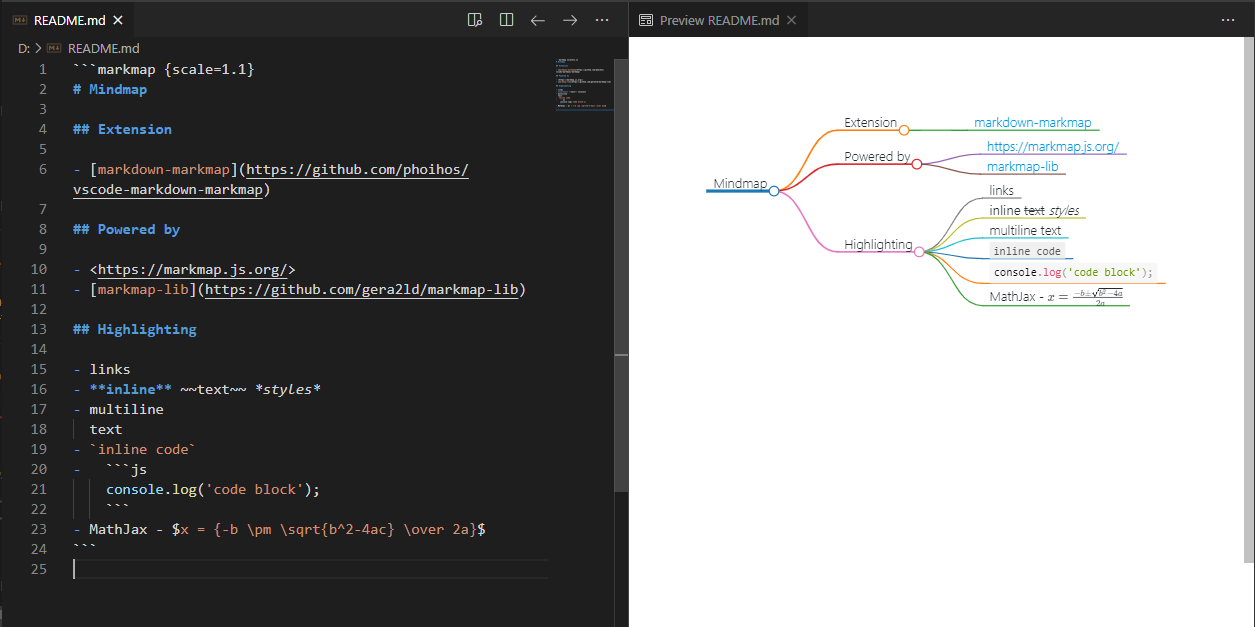
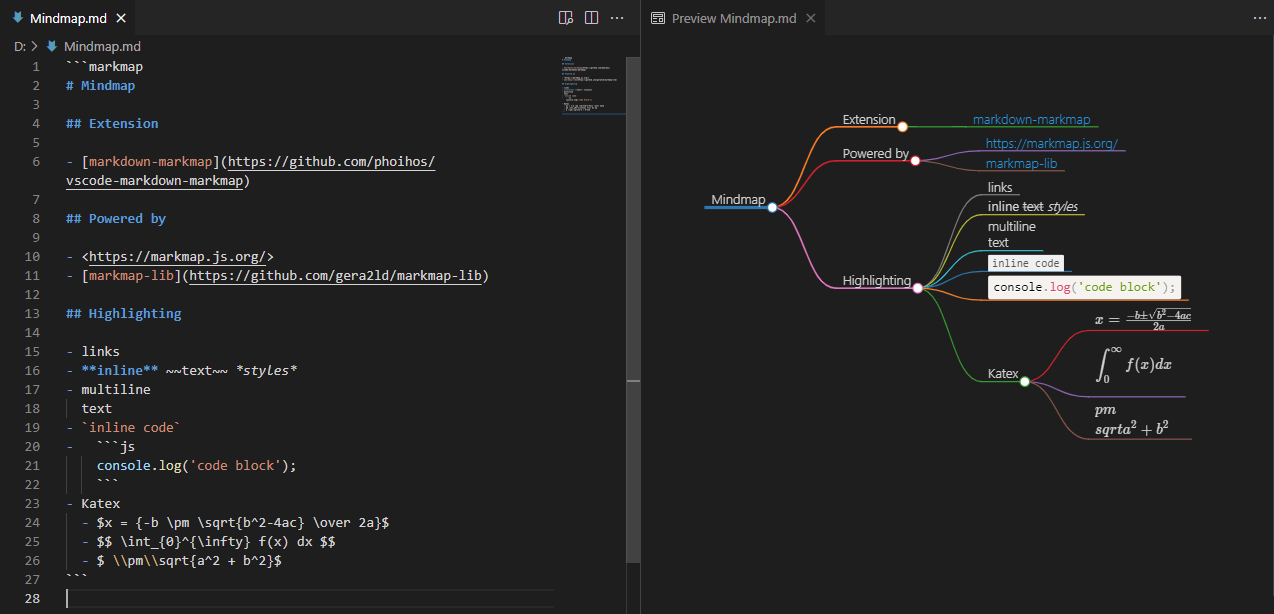
Update `README.md`
- Changed default value of `kpadr` attribute to `1.0` for documentaion

diff --git a/src/renderer/markmap.js b/src/renderer/markmap.js
@@ -35,7 +35,8 @@ function _buildSvgOption(attr) {
   white-space: normal
 }
 .${id}-container .katex {
-  padding: 0 ${attr.kpadr ?? 0.5}em;
+  padding: 0;
+  padding-right: ${attr.kpadr ?? 1}em;
 }
 `
     },

diff --git a/README.md b/README.md
@@ -43,7 +43,10 @@ Create mindmap in markdown using `markmap` (or `mdmm` or `mmmd`) fenced code blo
 -   ```js
     console.log('code block');
     ```
-- MathJax - $x = {-b \pm \sqrt{b^2-4ac} \over 2a}$
+- Katex
+  - $x = {-b \pm \sqrt{b^2-4ac} \over 2a}$
+  - $$ \int_{0}^{\infty} f(x) dx $$
+  - $ \\pm\\sqrt{a^2 + b^2}$
 ```
 ~~~
 
@@ -59,7 +62,7 @@ Add attributes to `markmap` fenced code block with `{key=value}` curly brackets:
 > Multiple attributes are separated by `space`.
 
 ~~~markdown
-```markmap {scale=1.1 kpadr=0.5}
+```markmap {scale=1.1 kpadr=1.0}
 ···
 ```
 ~~~
@@ -69,7 +72,7 @@ Table of available attributes:
 | Key   | Default Value    | Description                                                                                               |
 | ----- | ---------------- | --------------------------------------------------------------------------------------------------------- |
 | scale | `1.1`            | Scale the preview render size                                                                             |
-| kpadr | `0.5` (Unit: em) | Adjust `padding-right` style for the KaTeX (Math Formula) rendering<br>(Use this option **if your Math Formula is cropped**) |
+| kpadr | `1.0` (Unit: em) | Adjust `padding-right` style for the KaTeX (Math Formula) rendering<br>(Use this option **if your Math Formula is cropped**) |
 
 ## Markmap Visualizing
 

diff --git a/CHANGELOG.md b/CHANGELOG.md
@@ -2,6 +2,11 @@
 
 All notable changes to the "Markdown Preview Markmap Support" extension will be documented in this file.
 
+## [1.3.2] - 2021-07-02
+
+- Changed : The default value of `kpadr` attribute changed to `1.0` (also internal calculation has changed)
+- Updated : `README.md`
+
 ## [1.3.1] - 2021-07-02
 
 - Added : `kpadr` attribute to solve the KaTeX (Math Formula) rendering cutting issue (Related issue: #5)
